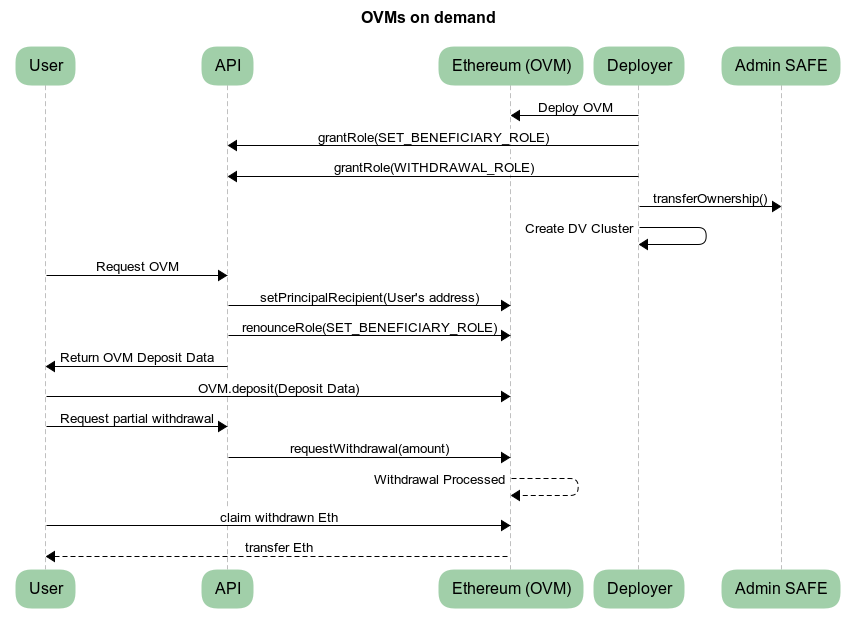
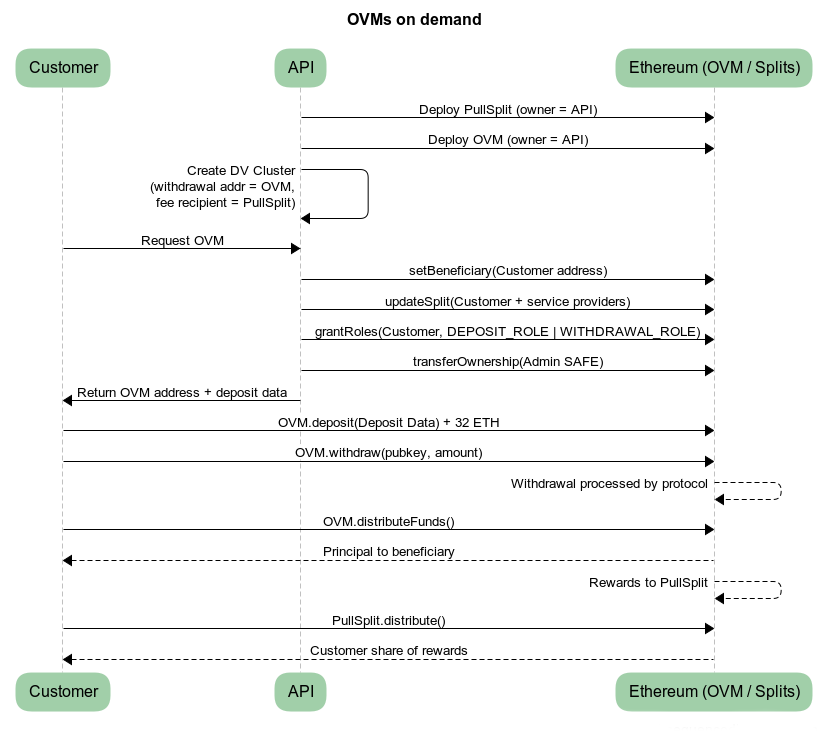
Update code snippits, diagram. Set fee recipient to deployed splitter.

diff --git a/advanced-and-troubleshooting/advanced/ovm-predeploy.md b/advanced-and-troubleshooting/advanced/ovm-predeploy.md
@@ -8,16 +8,15 @@ description: >-
 A customer opting into staking at an unknown time, is a key trigger for enterprise staking deployments. There are two primary ways these ad-hoc demands are programatically fulfilled, using smart contracts or using/generating the private keys.
 
 - Smart contracts such as an [Obol Validator Manager](../../learn/intro/obol-splits.md#obol-validator-managers) (OVM) can re-assign their (beneficial) ownership; allowing a customer to activate a pre-created deposit for this smart contract.
-- A fresh DV cluster can be [created](../../run-a-dv/start/create-a-dv-alone.md), a [DKG invite](../../run-a-dv/start/create-a-dv-with-a-group.md) cam be created for waiting [DV-pods](https://github.com/ObolNetwork/helm-charts/tree/main/charts/dv-pod) ready to partake, a [`charon add-validators`](./add-validators.md) command could be triggered to add extra keys to a running cluster, or [`charon deposit sign`](./alter-withdrawal-addresses.md) could be used to alter an unused validator's withdrawal address.
+- A fresh DV cluster can be [created](../../run-a-dv/start/create-a-dv-alone.md), a [DKG invite](../../run-a-dv/start/create-a-dv-with-a-group.md) can be created for waiting [DV-pods](https://github.com/ObolNetwork/helm-charts/tree/main/charts/dv-pod) ready to partake, a [`charon add-validators`](./add-validators.md) command could be triggered to add extra keys to a running cluster, or [`charon deposit sign`](./alter-withdrawal-addresses.md) could be used to alter an unused validator's withdrawal address.
 
 This guide will focus on the former, managing validators using Obol smart contracts, and their role based access control. This approach requires less coordination for multi-operator setups, and is simpler than creating or interacting with private key material on the fly by a remote trigger.
 
-This guide will demonstrate the key steps in preparing a DV cluster for this type of scenario. 50 blank OVMs will be created, each with 10 `0x02` validator keys (>1m eth capacity) along with 50 blank splitter contracts. Adjust the number of OVMs, splitters, and their key counts for your use case. Administratorship of the OVMs and splitters will be given to a private key that will sit in a secure back end API server, and when a customer triggers an allocation of an OVM, the API server private key will make the necessary updates to an unallocated OVM, and then revoke its control over the smart contracts, leaving them ready for the customer's deposit.
+This guide will demonstrate the key steps in preparing a DV cluster for this type of scenario. A blank OVM will be created and assigned validator keys, along with a splitter contract for distributing rewards. Adjust the number of OVMs, splitters, and their key counts for your use case. Administratorship of the OVMs and splitters will be given to a private key that will sit in a secure back end API server, and when a customer triggers an allocation of an OVM, the API server private key will make the necessary updates to an unallocated OVM, and then revoke its control over the smart contracts, leaving them ready for the customer's deposit.
 
 The Hoodi testnet will be used for all examples.
 
 <figure><img src="../../.gitbook/assets/OVMs-on-demand.png" alt=""><figcaption></figcaption></figure>
-<!-- Need to update the above to reflect ownership going to API, and then from API to admin safe. Also transfer of deposit role to user-->
 
 {% hint style="warning" %}
 The following code snippets are minimal examples for the purpose of achieving the desired functionality. These should not be run in production without thorough testing and review.
@@ -29,10 +28,6 @@ The following code snippets are minimal examples for the purpose of achieving th
 To keep the `cast` examples neat, we'll declare the key addresses upfront here, and refer to them as environment variables in each `cast` command.
 
 ```sh
-# Create a keypair with `cast wallet new`. Put some (hoodi)Eth in the corresponding address. 
-# (Make sure you don't commit it to version control!)
-export DEPLOYER_PRIVATE_KEY=0xPrivateKeyForADeployer
-
 # You need an RPC for your commands to reach the Ethereum network. Use one for the correct chain.
 export RPC_URL=https://ethereum-hoodi-rpc.publicnode.com
 #export RPC_URL=https://ethereum-rpc.publicnode.com
@@ -66,26 +61,23 @@ A key decision when it comes to preparing a Distributed Validator is how Node Op
 
 ### Contract Deployment
 
-A safe and convenient way to deploy an OVM contract is through the [existing contract factory](https://docs.obol.org/next/learn/readme/obol-splits#obol-validator-manager-factory-deployment).
+A safe and convenient way to deploy an OVM contract is through the [existing contract factory](https://docs.obol.org/next/learn/readme/obol-splits#obol-validator-manager-factory-deployment). A splitter contract can be deployed in a similar fashion.
 {% tabs %}
 {% tab title="Cast" %}
-
-Run these commands 50 times. (You may need to use `createSplitDeterministic()` with a salt value or use different placeholder recipient addresses for the PullSplits or the command will error due to a split with that configuration already existing)
-
 ```sh
-# Create an OVM owned by the backend API, with placeholder beneficiary and reward addresses
-cast send $OBOL_VALIDATOR_MANAGER_FACTORY_ADDRESS \
-  "createObolValidatorManager(address,address,address,uint64)" \
-  $BACKEND_API_ADDRESS $BACKEND_API_ADDRESS $BACKEND_API_ADDRESS 16000000000 \
-  --rpc-url $RPC_URL \
-  --private-key $DEPLOYER_PRIVATE_KEY
-
 # Create a PullSplit owned by the backend API
 cast send $PULL_SPLIT_FACTORY_ADDRESS \
   "createSplit((address[],uint256[],uint256,uint16),address,address)" \
   (($BACKEND_API_ADDRESS) (1000000) 1000000, 0) $BACKEND_API_ADDRESS $BACKEND_API_ADDRESS \
   --rpc-url $RPC_URL \
-  --private-key $DEPLOYER_PRIVATE_KEY
+  --private-key $BACKEND_API_PRIVATE_KEY
+
+# Create an OVM owned by the backend API, with placeholder beneficiary
+cast send $OBOL_VALIDATOR_MANAGER_FACTORY_ADDRESS \
+  "createObolValidatorManager(address,address,address,uint64)" \
+  $BACKEND_API_ADDRESS $BACKEND_API_ADDRESS 0xYourRecentlyDeployedPullSplit 16000000000 \
+  --rpc-url $RPC_URL \
+  --private-key $BACKEND_API_PRIVATE_KEY
 ```
 {% endtab %}
 {% tab title="Forge" %}
@@ -96,6 +88,21 @@ pragma solidity ^0.8.19;
 
 import {Script, console} from "forge-std/Script.sol";
 
+interface IPullSplitFactory {
+    function createSplit(
+        SplitParams calldata params,
+        address owner,
+        address creator
+    ) external returns (address split);
+}
+
+struct SplitParams {
+    address[] recipients;
+    uint256[] allocations;
+    uint256 totalAllocation;
+    uint16 distributionIncentive;
+}
+
 interface IObolValidatorManagerFactory {
     function createObolValidatorManager(
         address owner,
@@ -105,19 +112,40 @@ interface IObolValidatorManagerFactory {
     ) external returns (address ovm);
 }
 
-contract DeployOVM is Script {
-    // Factory contract address (already deployed)
+contract DeployOVMAndSplit is Script {
     address constant OBOL_VALIDATOR_MANAGER_FACTORY_ADDRESS = 0x5754C8665B7e7BF15E83fCdF6d9636684B782b12;
+    address constant PULL_SPLIT_FACTORY_ADDRESS = 0x6B9118074aB15142d7524E8c4ea8f62A3Bdb98f1;
+    address constant BACKEND_API_ADDRESS = 0xPublicAddressForAPIWallet;
 
     function run() external {
         vm.startBroadcast();
 
-        // Deploy the ObolValidatorManager via the factory
+        // Step 1: Deploy the PullSplit via the factory
+        address[] memory recipients = new address[](1);
+        recipients[0] = BACKEND_API_ADDRESS;
+
+        uint256[] memory allocations = new uint256[](1);
+        allocations[0] = 1_000_000;
+
+        address pullSplit = IPullSplitFactory(PULL_SPLIT_FACTORY_ADDRESS).createSplit(
+            SplitParams({
+                recipients: recipients,
+                allocations: allocations,
+                totalAllocation: 1_000_000,
+                distributionIncentive: 0
+            }),
+            BACKEND_API_ADDRESS, // owner
+            BACKEND_API_ADDRESS  // creator
+        );
+
+        console.log("PullSplit deployed at:", pullSplit);
+
+        // Step 2: Deploy the OVM via the factory, with the PullSplit as rewardRecipient
         address ovm = IObolValidatorManagerFactory(OBOL_VALIDATOR_MANAGER_FACTORY_ADDRESS).createObolValidatorManager(
-            0xPublicAddressForAPIWallet,  // API wallet
-            0xOwnerKeyAddress,            // beneficiary (receives principal)
-            0xOwnerKeyAddress,            // rewardRecipient (receives rewards)
-            16_000_000_000                // 16 ETH in gwei (recommended principal threshold)
+            BACKEND_API_ADDRESS,  // owner (API wallet)
+            BACKEND_API_ADDRESS,  // beneficiary (placeholder, updated during onboarding)
+            pullSplit,            // rewardRecipient (the PullSplit we just deployed)
+            16_000_000_000        // 16 ETH in gwei (recommended principal threshold)
         );
 
         console.log("ObolValidatorManager deployed at:", ovm);
@@ -141,66 +169,91 @@ import {
 import { privateKeyToAccount } from "viem/accounts";
 import { hoodi } from "viem/chains";
 
-// Factory contract address (already deployed)
+// Factory contract addresses (already deployed)
 const OBOL_VALIDATOR_MANAGER_FACTORY_ADDRESS = "0x5754C8665B7e7BF15E83fCdF6d9636684B782b12";
+const PULL_SPLIT_FACTORY_ADDRESS = "0x6B9118074aB15142d7524E8c4ea8f62A3Bdb98f1";
 
-// Minimal ABI for the factory - just what we need to deploy and parse events
-const factoryAbi = parseAbi([
+const BACKEND_API_ADDRESS = "0xPublicAddressForAPIWallet";
+
+// Minimal ABIs for the factories
+const splitFactoryAbi = parseAbi([
+  "function createSplit((address[],uint256[],uint256,uint16),address,address) external returns (address split)",
+]);
+
+const ovmFactoryAbi = parseAbi([
   "function createObolValidatorManager(address owner, address beneficiary, address rewardRecipient, uint64 principalThreshold) external returns (address ovm)",
   "event CreateObolValidatorManager(address indexed ovm, address indexed owner, address beneficiary, address rewardRecipient, uint64 principalThreshold)",
 ]);
 
-// Set up account from private key
+// Set up account from private key (the backend API key)
 const account = privateKeyToAccount("0x...");
 
-// Create a wallet client for sending transactions
 const walletClient = createWalletClient({
   account,
   chain: hoodi,
   transport: http("https://ethereum-hoodi-rpc.publicnode.com"),
 });
 
-// Create a public client for reading chain data (receipts, logs)
 const publicClient = createPublicClient({
   chain: hoodi,
   transport: http("https://ethereum-hoodi-rpc.publicnode.com"),
 });
 
-// Deploy the ObolValidatorManager via the factory
-const hash = await walletClient.writeContract({
-  address: OBOL_VALIDATOR_MANAGER_FACTORY_ADDRESS,
-  abi: factoryAbi,
-  functionName: "createObolValidatorManager",
+// Step 1: Deploy the PullSplit via the factory
+const splitHash = await walletClient.writeContract({
+  address: PULL_SPLIT_FACTORY_ADDRESS,
+  abi: splitFactoryAbi,
+  functionName: "createSplit",
   args: [
-    "0xPublicAddressForAPIWallet",
-    "0xOwnerKeyAddress",
-    "0xOwnerKeyAddress",
-    16_000_000_000n, // 16 ETH in gwei (recommended principal threshold)
+    {
+      recipients: [BACKEND_API_ADDRESS],
+      allocations: [1_000_000n],
+      totalAllocation: 1_000_000n,
+      distributionIncentive: 0,
+    },
+    BACKEND_API_ADDRESS, // owner
+    BACKEND_API_ADDRESS, // creator
   ],
 });
 
-console.log("Transaction submitted:", hash);
+console.log("PullSplit deploy tx:", splitHash);
+const splitReceipt = await publicClient.waitForTransactionReceipt({ hash: splitHash });
 
-// Wait for the transaction to be confirmed and get the receipt
-const receipt = await publicClient.waitForTransactionReceipt({ hash });
+// Extract the PullSplit address from the transaction logs
+// (adjust based on the factory's event signature)
+const pullSplitAddress = splitReceipt.logs[0].address;
+console.log("PullSplit deployed at:", pullSplitAddress);
 
-// Parse the logs to find the CreateObolValidatorManager event
+// Step 2: Deploy the OVM via the factory, with the PullSplit as rewardRecipient
+const ovmHash = await walletClient.writeContract({
+  address: OBOL_VALIDATOR_MANAGER_FACTORY_ADDRESS,
+  abi: ovmFactoryAbi,
+  functionName: "createObolValidatorManager",
+  args: [
+    BACKEND_API_ADDRESS,  // owner (API wallet)
+    BACKEND_API_ADDRESS,  // beneficiary (placeholder, updated during onboarding)
+    pullSplitAddress,     // rewardRecipient (the PullSplit we just deployed)
+    16_000_000_000n,      // 16 ETH in gwei (recommended principal threshold)
+  ],
+});
+
+console.log("OVM deploy tx:", ovmHash);
+const ovmReceipt = await publicClient.waitForTransactionReceipt({ hash: ovmHash });
+
 const logs = parseEventLogs({
-  abi: factoryAbi,
-  logs: receipt.logs,
+  abi: ovmFactoryAbi,
+  logs: ovmReceipt.logs,
   eventName: "CreateObolValidatorManager",
 });
 
-// Extract the deployed OVM address from the event
 const ovmAddress = logs[0].args.ovm;
-
 console.log("ObolValidatorManager deployed at:", ovmAddress);
 ```
 
 {% endtab %}
 {% endtabs %}
 
-After you have deployed an Obol Validator Manager contract, lets save its address and an example customer address as environment variables to make the rest of the `cast` demo easier. 
+After you have deployed an Obol Validator Manager contract, let's save its address and an example customer address as environment variables to make the rest of the `cast` demo easier. 
 
 ```sh
 # The created OVM from the factory
@@ -270,18 +323,28 @@ import {Script, console} from "forge-std/Script.sol";
 
 interface IObolValidatorManager {
     function setBeneficiary(address newBeneficiary) external;
-    function renounceRoles(uint256 roles) external payable;
+    function grantRoles(address user, uint256 roles) external payable;
 }
 
-contract SetBeneficiaryAndRenounce is Script {
+interface IPullSplit {
+    function updateSplit(
+        address[] calldata recipients,
+        uint256[] calldata allocations,
+        uint256 totalAllocation,
+        uint16 distributionIncentive
+    ) external;
+}
+
+contract AssignToCustomer is Script {
     address constant OVM_ADDRESS = 0xYourOVMAddress;
+    address constant PULL_SPLIT_ADDRESS = 0xYourPullSplitAddress;
     address constant CUSTOMER_ADDRESS = 0xCustomerAddress;
+    address constant ADMIN_SAFE_ADDRESS = 0xFallbackSafeAddressHere;
 
     uint256 constant WITHDRAWAL_ROLE = 0x01;
     uint256 constant DEPOSIT_ROLE = 0x20;
 
     function run() external {
-        // Use the secondary key that was granted SET_BENEFICIARY_ROLE
         vm.startBroadcast();
 
         IObolValidatorManager ovm = IObolValidatorManager(OVM_ADDRESS);
@@ -290,10 +353,22 @@ contract SetBeneficiaryAndRenounce is Script {
         ovm.setBeneficiary(CUSTOMER_ADDRESS);
         console.log("Beneficiary set to:", CUSTOMER_ADDRESS);
 
-        // Allow the beneficiary to deposit and withdraw
-        ovm.grantRoles(CUSTOMER_ADDRESS, WITHDRAWAL_ROLE|DEPOSIT_ROLE)
+        // Update the splitter to include the customer and service providers (90/10 split)
+        address[] memory recipients = new address[](2);
+        recipients[0] = CUSTOMER_ADDRESS;
+        recipients[1] = ADMIN_SAFE_ADDRESS;
+
+        uint256[] memory allocations = new uint256[](2);
+        allocations[0] = 900_000;
+        allocations[1] = 100_000;
+
+        IPullSplit(PULL_SPLIT_ADDRESS).updateSplit(recipients, allocations, 1_000_000, 0);
+        console.log("PullSplit updated with customer and service provider shares");
+
+        // Grant the customer deposit and withdrawal roles
+        ovm.grantRoles(CUSTOMER_ADDRESS, WITHDRAWAL_ROLE | DEPOSIT_ROLE);
         console.log("Customer assigned deposit and withdrawal roles");
-        
+
         vm.stopBroadcast();
     }
 }
@@ -307,11 +382,15 @@ import { createWalletClient, createPublicClient, http, parseAbi } from "viem";
 import { privateKeyToAccount } from "viem/accounts";
 import { hoodi } from "viem/chains";
 
-// The deployed OVM address
+// The deployed OVM and PullSplit addresses
 const OVM_ADDRESS = "0xYourOVMAddress";
+const PULL_SPLIT_ADDRESS = "0xYourPullSplitAddress";
 
 // The customer address to receive principal deposits
 const CUSTOMER_ADDRESS = "0xCustomerAddress";
+
+// Admin safe for service provider fee share
+const ADMIN_SAFE_ADDRESS = "0xFallbackSafeAddressHere";
 
 // Role bitmasks from the contract
 const WITHDRAWAL_ROLE = 0x01n;
@@ -322,11 +401,15 @@ const ROLES_TO_GRANT = WITHDRAWAL_ROLE | DEPOSIT_ROLE; // 0x21
 
 const ovmAbi = parseAbi([
   "function setBeneficiary(address newBeneficiary) external",
-  "function grantRoles(address user, uint256 roles) external payable"
+  "function grantRoles(address user, uint256 roles) external payable",
+]);
+
+const pullSplitAbi = parseAbi([
+  "function updateSplit(address[],uint256[],uint256,uint16) external",
 ]);
 
 // Use the backend API key
-const account = privateKeyToAccount("0xLessPrivilegedKey...");
+const account = privateKeyToAccount("0xBackendAPIPrivateKey...");
 
 const walletClient = createWalletClient({
   account,
@@ -339,7 +422,7 @@ const publicClient = createPublicClient({
   transport: http("https://ethereum-hoodi-rpc.publicnode.com"),
 });
 
-// Set the beneficiary to the customer address
+// Step 1: Set the beneficiary to the customer address
 const hash1 = await walletClient.writeContract({
   address: OVM_ADDRESS,
   abi: ovmAbi,
@@ -351,16 +434,33 @@ console.log("Set beneficiary tx:", hash1);
 await publicClient.waitForTransactionReceipt({ hash: hash1 });
 console.log("Beneficiary set to:", CUSTOMER_ADDRESS);
 
-// Grant the customer the roles to deposit and withdraw
+// Step 2: Update the splitter to include customer and service providers (90/10 split)
 const hash2 = await walletClient.writeContract({
+  address: PULL_SPLIT_ADDRESS,
+  abi: pullSplitAbi,
+  functionName: "updateSplit",
+  args: [
+    [CUSTOMER_ADDRESS, ADMIN_SAFE_ADDRESS],
+    [900_000n, 100_000n],
+    1_000_000n,
+    0,
+  ],
+});
+
+console.log("Update split tx:", hash2);
+await publicClient.waitForTransactionReceipt({ hash: hash2 });
+console.log("PullSplit updated with customer and service provider shares");
+
+// Step 3: Grant the customer deposit and withdrawal roles
+const hash3 = await walletClient.writeContract({
   address: OVM_ADDRESS,
   abi: ovmAbi,
   functionName: "grantRoles",
-  args: [CUSTOMER_ADDRESS,ROLES_TO_GRANT],
+  args: [CUSTOMER_ADDRESS, ROLES_TO_GRANT],
 });
 
-console.log("Grant roles tx:", hash2);
-await publicClient.waitForTransactionReceipt({ hash: hash2 });
+console.log("Grant roles tx:", hash3);
+await publicClient.waitForTransactionReceipt({ hash: hash3 });
 console.log("Deposit and withdrawal role assigned to customer");
 ```
 
